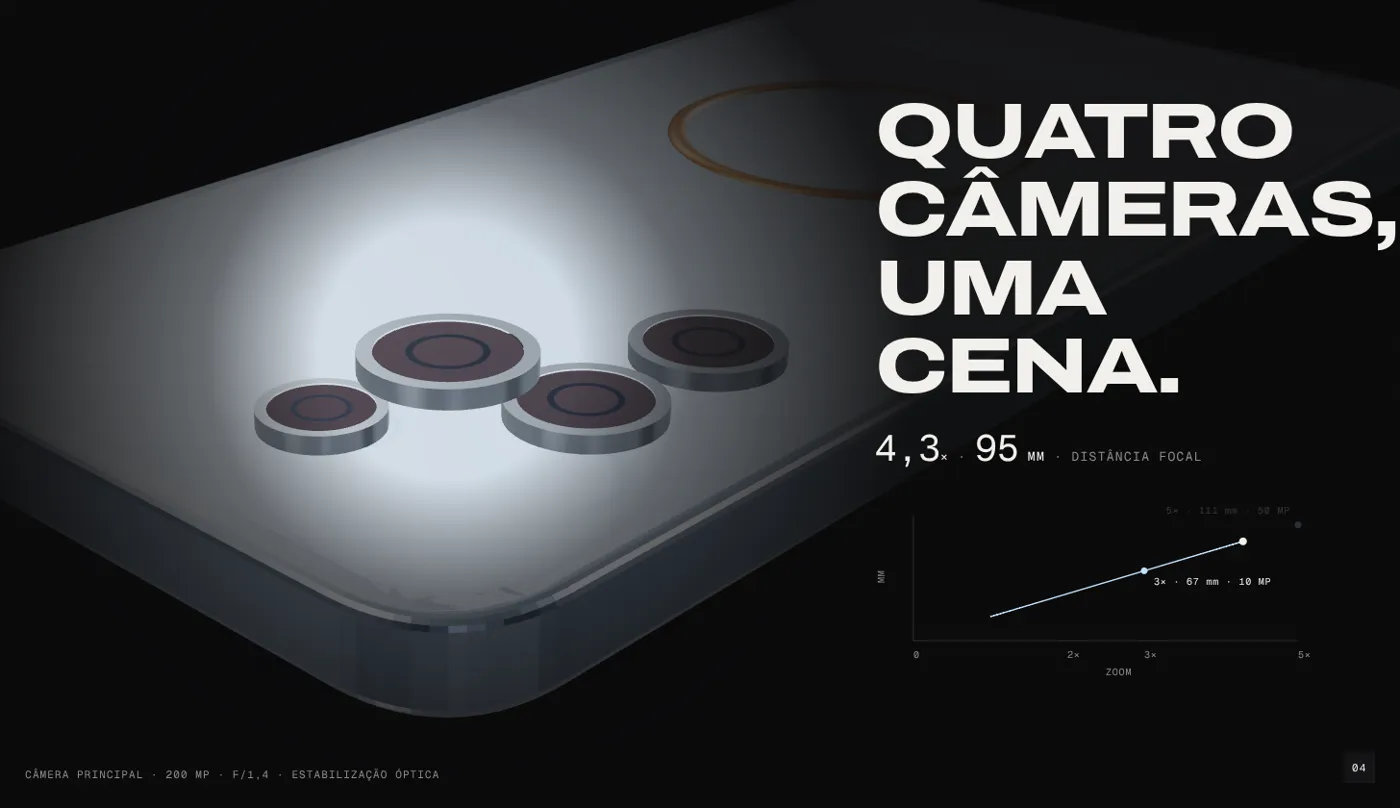
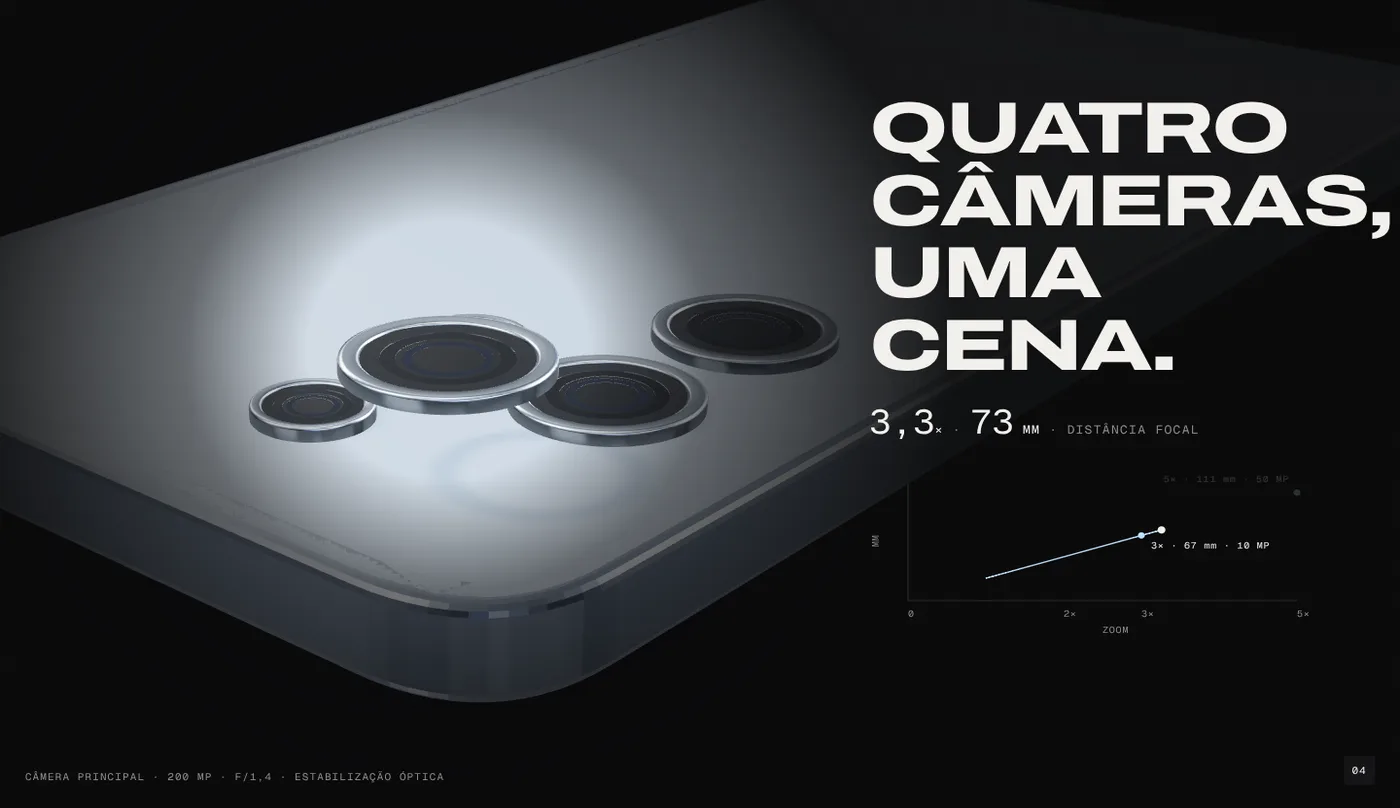
Karol x Samsung: câmeras no desenho dos Galaxy Ultra
- Coluna de três lentes grandes e, à direita, tele 5× e foco a laser no mesmo acabamento, com o flash entre elas (como na referência do S26 Ultra)
- Cada lente com anel de metal polido chanfrado, borda preta, elementos ópticos e cúpula de vidro escuro
- Texto gravado na traseira não corta mais em "S26 ULTR"
- Print da seção da câmera atualizado no README

Claude-Session: https://claude.ai/code/session_01AashNDEhp9kfmbD746zfKi

diff --git a/Projetos/landing page Karol Sevilla x Samsung/src/three/phone.js b/Projetos/landing page Karol Sevilla x Samsung/src/three/phone.js
@@ -62,34 +62,58 @@ export function buildPhone({ quality }) {
   const pcb = new THREE.MeshStandardMaterial({ color: '#0f1f1a', roughness: 0.55, metalness: 0.15 });
   const chip = new THREE.MeshStandardMaterial({ color: '#16171a', roughness: 0.5, metalness: 0.3 });
   const tampa = new THREE.MeshStandardMaterial({ color: '#9aa1a9', roughness: 0.35, metalness: 0.95 });
-  const anel = new THREE.MeshStandardMaterial({ color: '#c9d7e6', roughness: 0.22, metalness: 1 });
-  const vidroLente = new THREE.MeshPhysicalMaterial({ color: '#06080c', roughness: 0.05, metalness: 0.2, clearcoat: 1, clearcoatRoughness: 0.02, iridescence: 0.6, iridescenceIOR: 1.6 });
+  // lentes no acabamento dos Galaxy Ultra: anel de metal polido (da cor da moldura), borda preta,
+  // os elementos ópticos aparecendo por dentro e uma cúpula de vidro escuro por cima
+  const anel = new THREE.MeshStandardMaterial({ color: '#c3d3e4', roughness: 0.14, metalness: 1, side: THREE.DoubleSide });
+  const bordaPreta = new THREE.MeshStandardMaterial({ color: '#07080a', roughness: 0.7, metalness: 0.1 });
+  const elemento = new THREE.MeshStandardMaterial({ color: '#141a24', roughness: 0.28, metalness: 0.85 });
+  const elementoAzul = new THREE.MeshStandardMaterial({ color: '#24324a', roughness: 0.18, metalness: 0.95, emissive: '#0a1226', emissiveIntensity: 0.6 });
+  const pupila = new THREE.MeshStandardMaterial({ color: '#020304', roughness: 0.35, metalness: 0.2 });
+  const cupula = new THREE.MeshPhysicalMaterial({ color: '#0c1424', roughness: 0.02, metalness: 0, clearcoat: 1, clearcoatRoughness: 0,
+    transparent: true, opacity: 0.32, depthWrite: false, iridescence: 0.55, iridescenceIOR: 1.5, envMapIntensity: 1.4 });
 
   const T = PHONE.t;
   // ---------- 1. vidro traseiro + câmeras (a traseira olha para baixo, y negativo)
   const back = add('traseira', new THREE.Mesh(slab(rrShape(PHONE.w - 0.6, PHONE.l - 0.6, PHONE.r - 0.3), 0.8, 0.25), azul));
   // texto discreto gravado na traseira (vê-se com o aparelho virado)
   const grav = add('traseira', new THREE.Mesh(new THREE.PlaneGeometry(40, 8),
-    new THREE.MeshStandardMaterial({ map: label('KAROL° · S26 ULTRA', 40, 8, { bg: '#a9c6e4', fg: '#7f9cbb', size: 46 }), roughness: 0.4 })), false);
+    new THREE.MeshStandardMaterial({ map: label('KAROL° · S26 ULTRA', 40, 8, { bg: '#a9c6e4', fg: '#7f9cbb', size: 38 }), roughness: 0.4 })), false);
   grav.rotation.x = Math.PI / 2; grav.rotation.z = Math.PI; grav.position.set(0, -0.01, PHONE.l / 2 - 22);
+  // uma lente: anel com aba chanfrada (perfil girado), borda preta, dois anéis de elementos, pupila e cúpula
+  const disco = (geo, mat, y) => { const m = new THREE.Mesh(geo, mat); m.rotation.x = Math.PI / 2; m.position.y = y; return m; };
+  function lente(r) {
+    const perfil = [[0.8, -0.15], [0.8, -1.02], [0.835, -1.2], [0.95, -1.26], [0.99, -1.16], [1, -0.96], [1, 0]]
+      .map(([k, y]) => new THREE.Vector2(r * k, y));
+    const ring = new THREE.Mesh(new THREE.LatheGeometry(perfil, 64), anel);
+    const borda = disco(new THREE.RingGeometry(r * 0.62, r * 0.8, 64), bordaPreta, -1.0);
+    const el1 = disco(new THREE.RingGeometry(r * 0.48, r * 0.62, 64), elemento, -0.94);
+    const inner = disco(new THREE.RingGeometry(r * 0.33, r * 0.42, 48), elementoAzul, -0.9);
+    const meio = disco(new THREE.RingGeometry(r * 0.42, r * 0.48, 48), pupila, -0.91);
+    const pup = disco(new THREE.CircleGeometry(r * 0.33, 48), pupila, -0.88);
+    // cúpula: calota esférica sobre a borda preta (raio da base 0,8 r, altura 0,2 mm)
+    const a = r * 0.8, h = 0.2, R = (a * a + h * h) / (2 * h);
+    const dome = new THREE.Mesh(new THREE.SphereGeometry(R, 64, 8, 0, Math.PI * 2, 0, Math.asin(a / R)), cupula);
+    dome.rotation.x = Math.PI; dome.position.y = -1.03 - h + R; dome.renderOrder = 2;
+    const barrel = new THREE.Group(); barrel.add(ring, borda, el1, meio, inner, pup, dome);
+    for (const m of [ring, borda, el1, meio, inner, pup]) { m.castShadow = !low; meshes.push(m); }
+    meshes.push(dome);
+    return { barrel, inner };
+  }
   const lensGroups = [];
   for (const L of LENSES) {
     const g = new THREE.Group(); g.position.set(L.x, 0, L.z);
-    const ring = new THREE.Mesh(new THREE.CylinderGeometry(L.r, L.r, 1.6, 48, 1, true), anel); ring.position.y = -0.8;
-    const ringCap = new THREE.Mesh(new THREE.RingGeometry(L.r * 0.82, L.r, 48), anel); ringCap.rotation.x = Math.PI / 2; ringCap.position.y = -1.6;
-    const glass = new THREE.Mesh(new THREE.CircleGeometry(L.r * 0.82, 48), vidroLente); glass.rotation.x = Math.PI / 2; glass.position.y = -1.45;
-    const inner = new THREE.Mesh(new THREE.RingGeometry(L.r * 0.38, L.r * 0.46, 40), new THREE.MeshStandardMaterial({ color: '#2a3a52', roughness: 0.2, metalness: 0.9 }));
-    inner.rotation.x = Math.PI / 2; inner.position.y = -1.48;
-    // a lente principal tem um "tubo" que sai na seção da câmera
-    const barrel = new THREE.Group(); barrel.add(ring, ringCap, glass, inner);
-    g.add(barrel);
-    for (const m of [ring, ringCap, glass, inner]) { m.castShadow = !low; meshes.push(m); }
-    layers.traseira.add(g);
-    lensGroups.push({ L, g, barrel, inner });
+    const { barrel, inner } = lente(L.r);
+    g.add(barrel); layers.traseira.add(g);
+    lensGroups.push({ L, g, barrel, inner }); // a principal (a 1ª) é a que sai do corpo na seção da câmera
   }
-  for (const [p, mat] of [[FLASH, new THREE.MeshStandardMaterial({ color: '#f3efe2', emissive: '#4d4a40', roughness: 0.3 })], [LASER, chip]]) {
-    const m = add('traseira', new THREE.Mesh(new THREE.CylinderGeometry(p.r, p.r, 0.5, 24), mat), false);
-    m.position.set(p.x, -0.25, p.z);
+  // o foco a laser: mesmo acabamento das lentes menores
+  { const g = new THREE.Group(); g.position.set(LASER.x, 0, LASER.z); g.add(lente(LASER.r).barrel); layers.traseira.add(g); }
+  // o flash: aro fino de metal e o difusor amarelado
+  {
+    const g = new THREE.Group(); g.position.set(FLASH.x, 0, FLASH.z);
+    const aro = new THREE.Mesh(new THREE.LatheGeometry([[0.78, -0.05], [0.78, -0.42], [0.9, -0.5], [1, -0.4], [1, 0]].map(([k, y]) => new THREE.Vector2(FLASH.r * k, y)), 48), anel);
+    const luz = disco(new THREE.CircleGeometry(FLASH.r * 0.78, 40), new THREE.MeshStandardMaterial({ color: '#f4ead0', emissive: '#6b5f40', emissiveIntensity: 0.5, roughness: 0.45 }), -0.36);
+    g.add(aro, luz); layers.traseira.add(g); meshes.push(aro, luz);
   }
 
   // ---------- 2. bateria (embaixo da placa, ocupa o meio e o pé do aparelho)

diff --git a/Projetos/landing page Karol Sevilla x Samsung/src/three/dims.js b/Projetos/landing page Karol Sevilla x Samsung/src/three/dims.js
@@ -10,16 +10,20 @@ export const PUNCH = { x: 0, z: -PHONE.l / 2 + 7.2, r: 1.7 };
 export const SPEN = { x: -PHONE.w / 2 + 13, w: 7.4 };
 
 // câmeras na traseira, vistas pelo eixo do modelo (a traseira olha para y negativo, o topo é z negativo).
-// Coluna de três lentes grandes no canto e uma quarta ao lado, com flash e foco a laser.
+// Desenho dos Galaxy Ultra (sem ilha): coluna de três lentes grandes no canto, cada uma com o seu anel,
+// e à direita delas uma coluna de duas lentes menores (a tele 5× e o foco a laser), com o flash no meio.
+// As menores ficam um pouco abaixo das grandes de cada linha, como na foto de referência do S26 Ultra.
 const cz = -PHONE.l / 2;
+const COL = 23.4, PASSO = 17.4, TOPO = 13.6; // x da coluna grande, distância entre lentes, centro da 1ª lente
 export const LENSES = [
-  { id: 'principal', x: 23.4, z: cz + 16, r: 6.6, mp: '200 MP', mm: 23 },
-  { id: 'ultrawide', x: 23.4, z: cz + 31.4, r: 6.6, mp: '50 MP', mm: 13 },
-  { id: 'tele3x', x: 23.4, z: cz + 46.8, r: 6.6, mp: '10 MP', mm: 67 },
-  { id: 'tele5x', x: 9.8, z: cz + 16, r: 5.2, mp: '50 MP', mm: 111 },
+  { id: 'principal', x: COL, z: cz + TOPO, r: 7.3, mp: '200 MP', mm: 23 },
+  { id: 'ultrawide', x: COL, z: cz + TOPO + PASSO, r: 7.3, mp: '50 MP', mm: 13 },
+  { id: 'tele3x', x: COL, z: cz + TOPO + PASSO * 2, r: 7.3, mp: '10 MP', mm: 67 },
+  { id: 'tele5x', x: COL - 14.6, z: cz + TOPO + 1.8, r: 4.6, mp: '50 MP', mm: 111 },
 ];
-export const FLASH = { x: 9.8, z: cz + 28.8, r: 2.2 };
-export const LASER = { x: 9.8, z: cz + 37, r: 1.5 };
+// o foco a laser tem o mesmo acabamento das lentes menores (na traseira ele parece uma quinta lente)
+export const LASER = { x: COL - 14.6, z: cz + TOPO + PASSO + 1.8, r: 4.6 };
+export const FLASH = { x: COL - 14.6, z: cz + TOPO + PASSO / 2 + 1.8, r: 1.9 };
 
 // as seis camadas, de baixo para cima (a abertura monta nesta ordem)
 export const LAYERS = ['traseira', 'bateria', 'placa', 'moldura', 'painel', 'vidro'];
